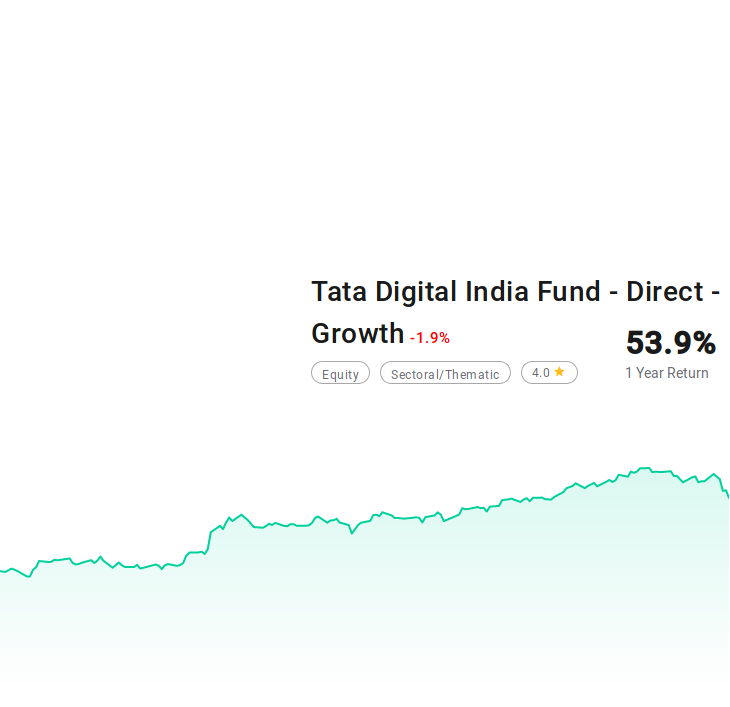
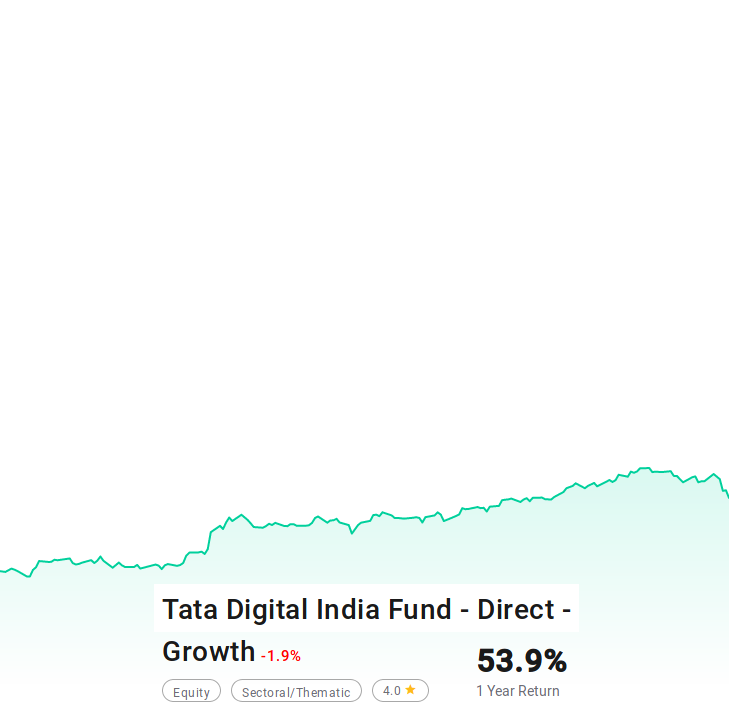
indexhero done

diff --git a/index.html b/index.html
@@ -166,7 +166,7 @@
     <div class="parallax-container" style="min-height:95vh">
 
         <div class="parallax">
-            <img id="main-img" src="images/GRAPH.png" alt="">
+            <img id="main-img" class="responsive-img" src="images/GRAPH.png" alt="">
         </div>
         <!-- <div class="parallax show-on-medium hide-on-large">
             <img src="images/GRAPH-medium.png" alt="">
